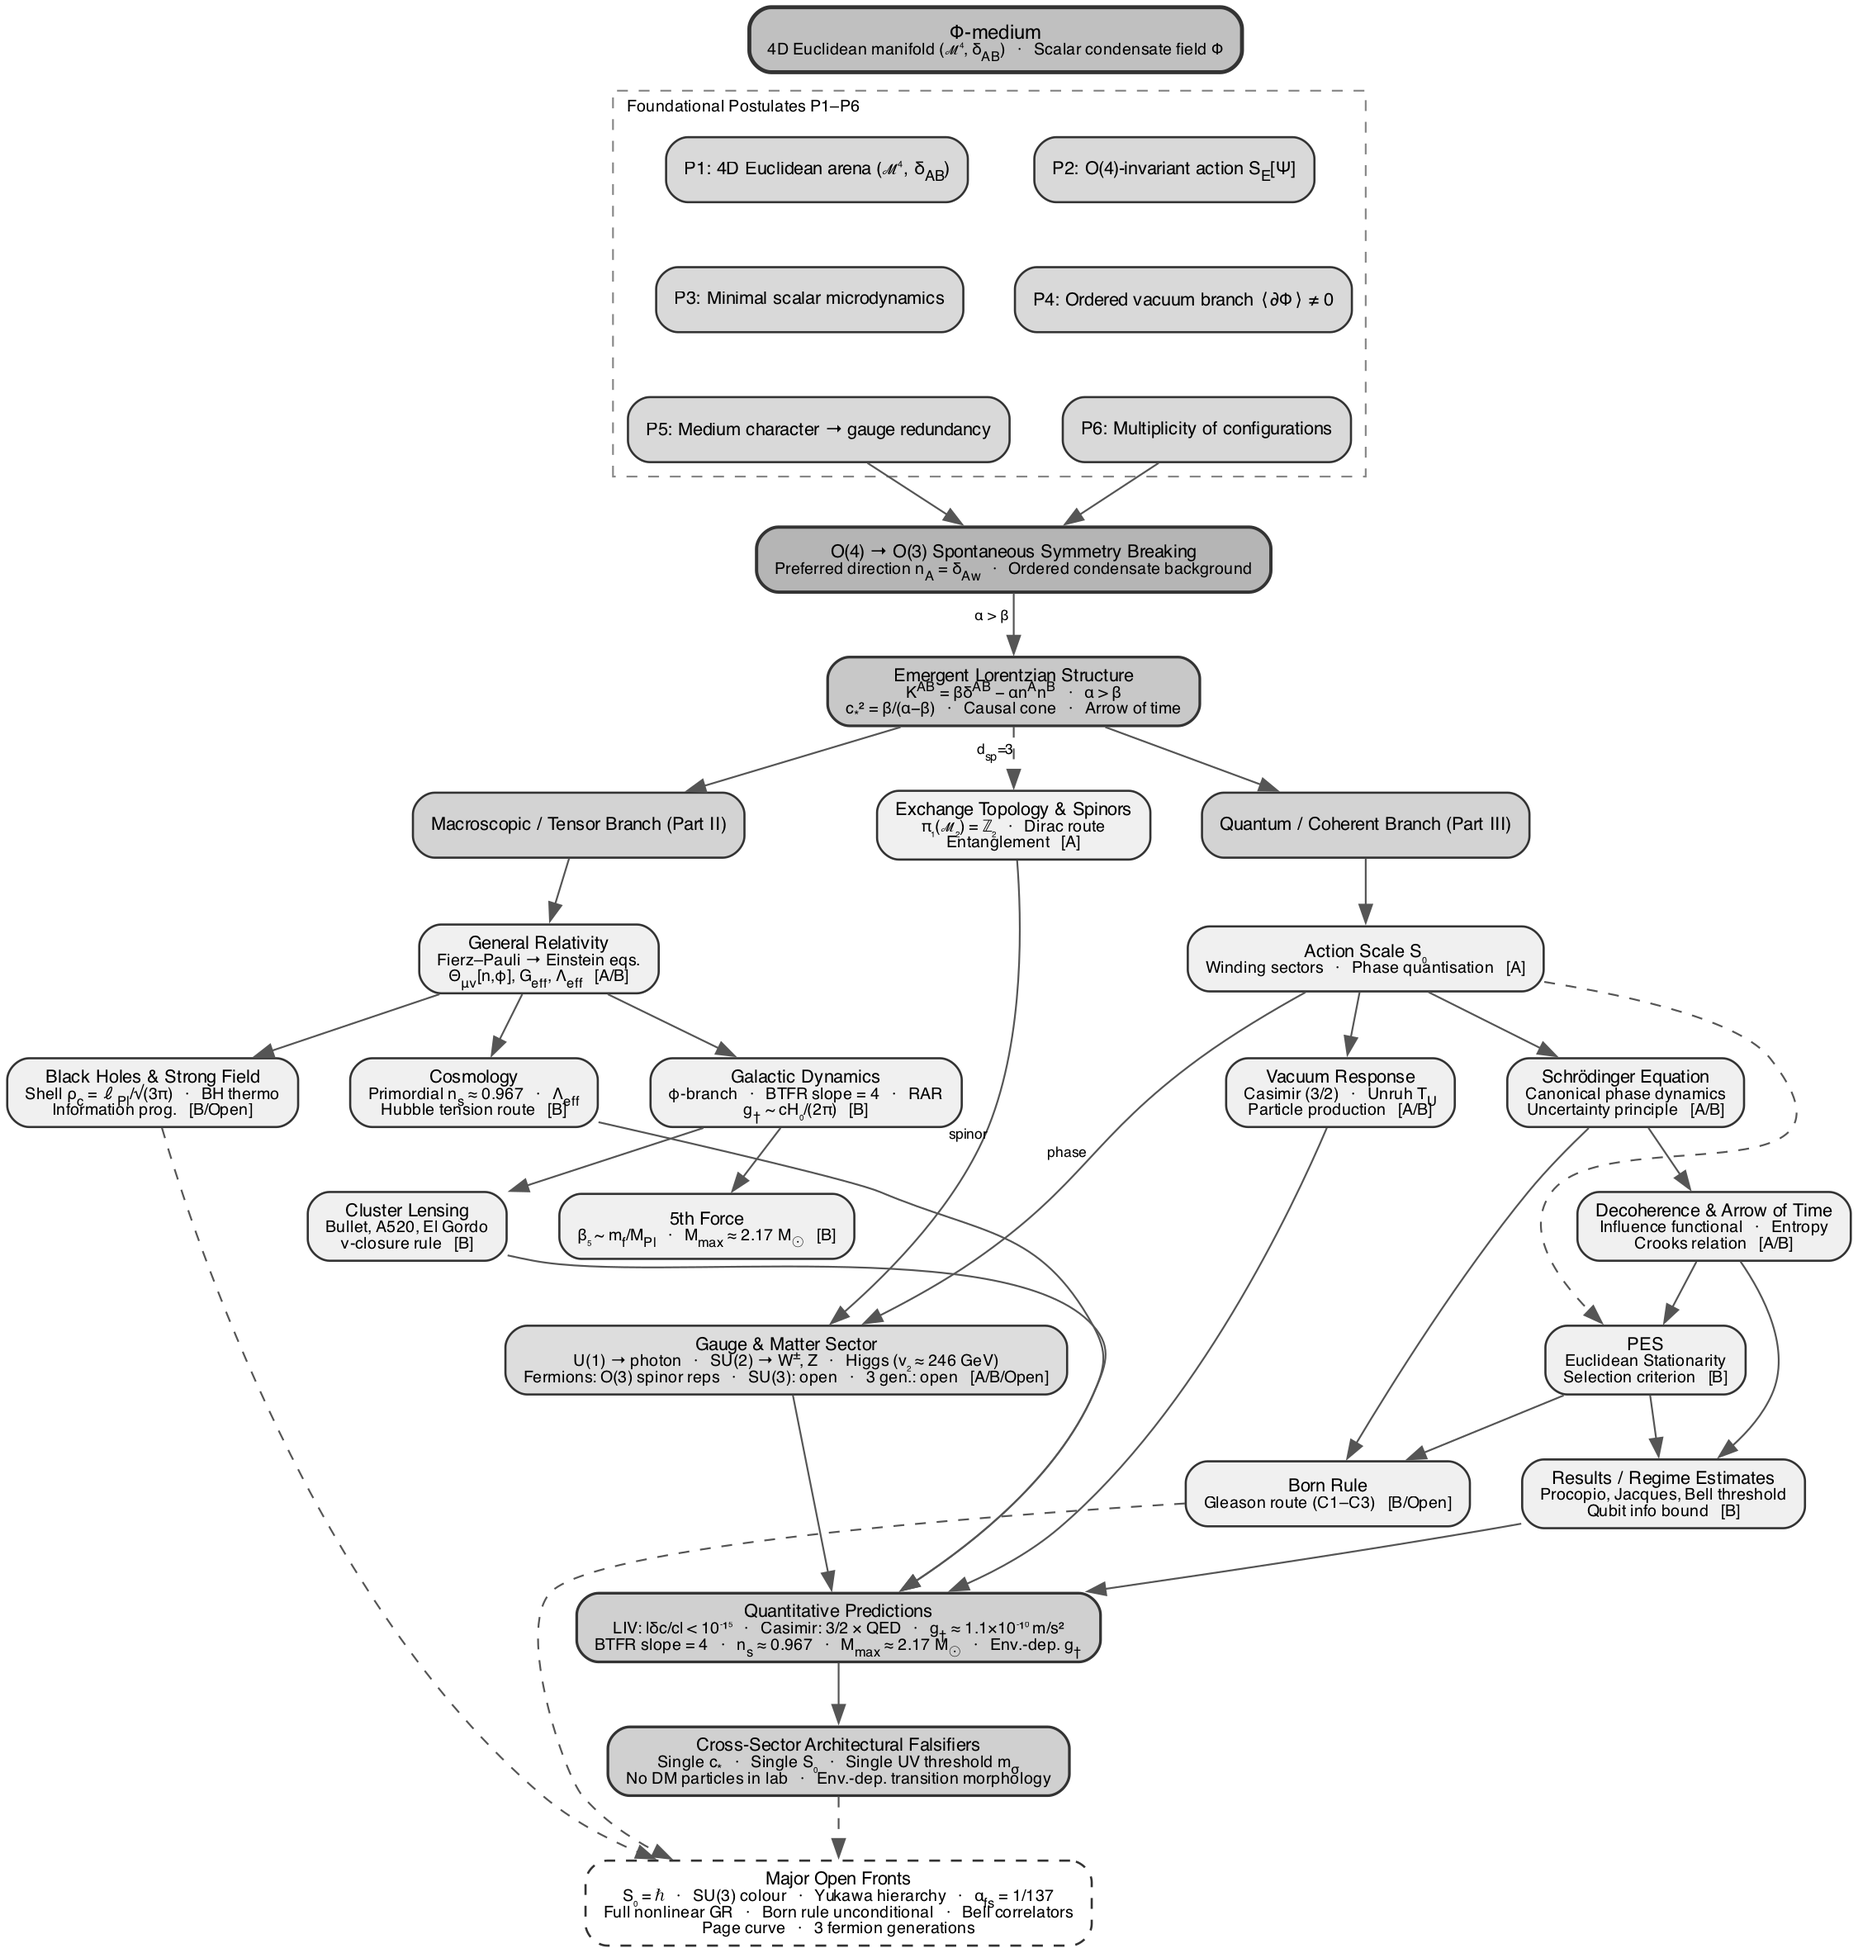
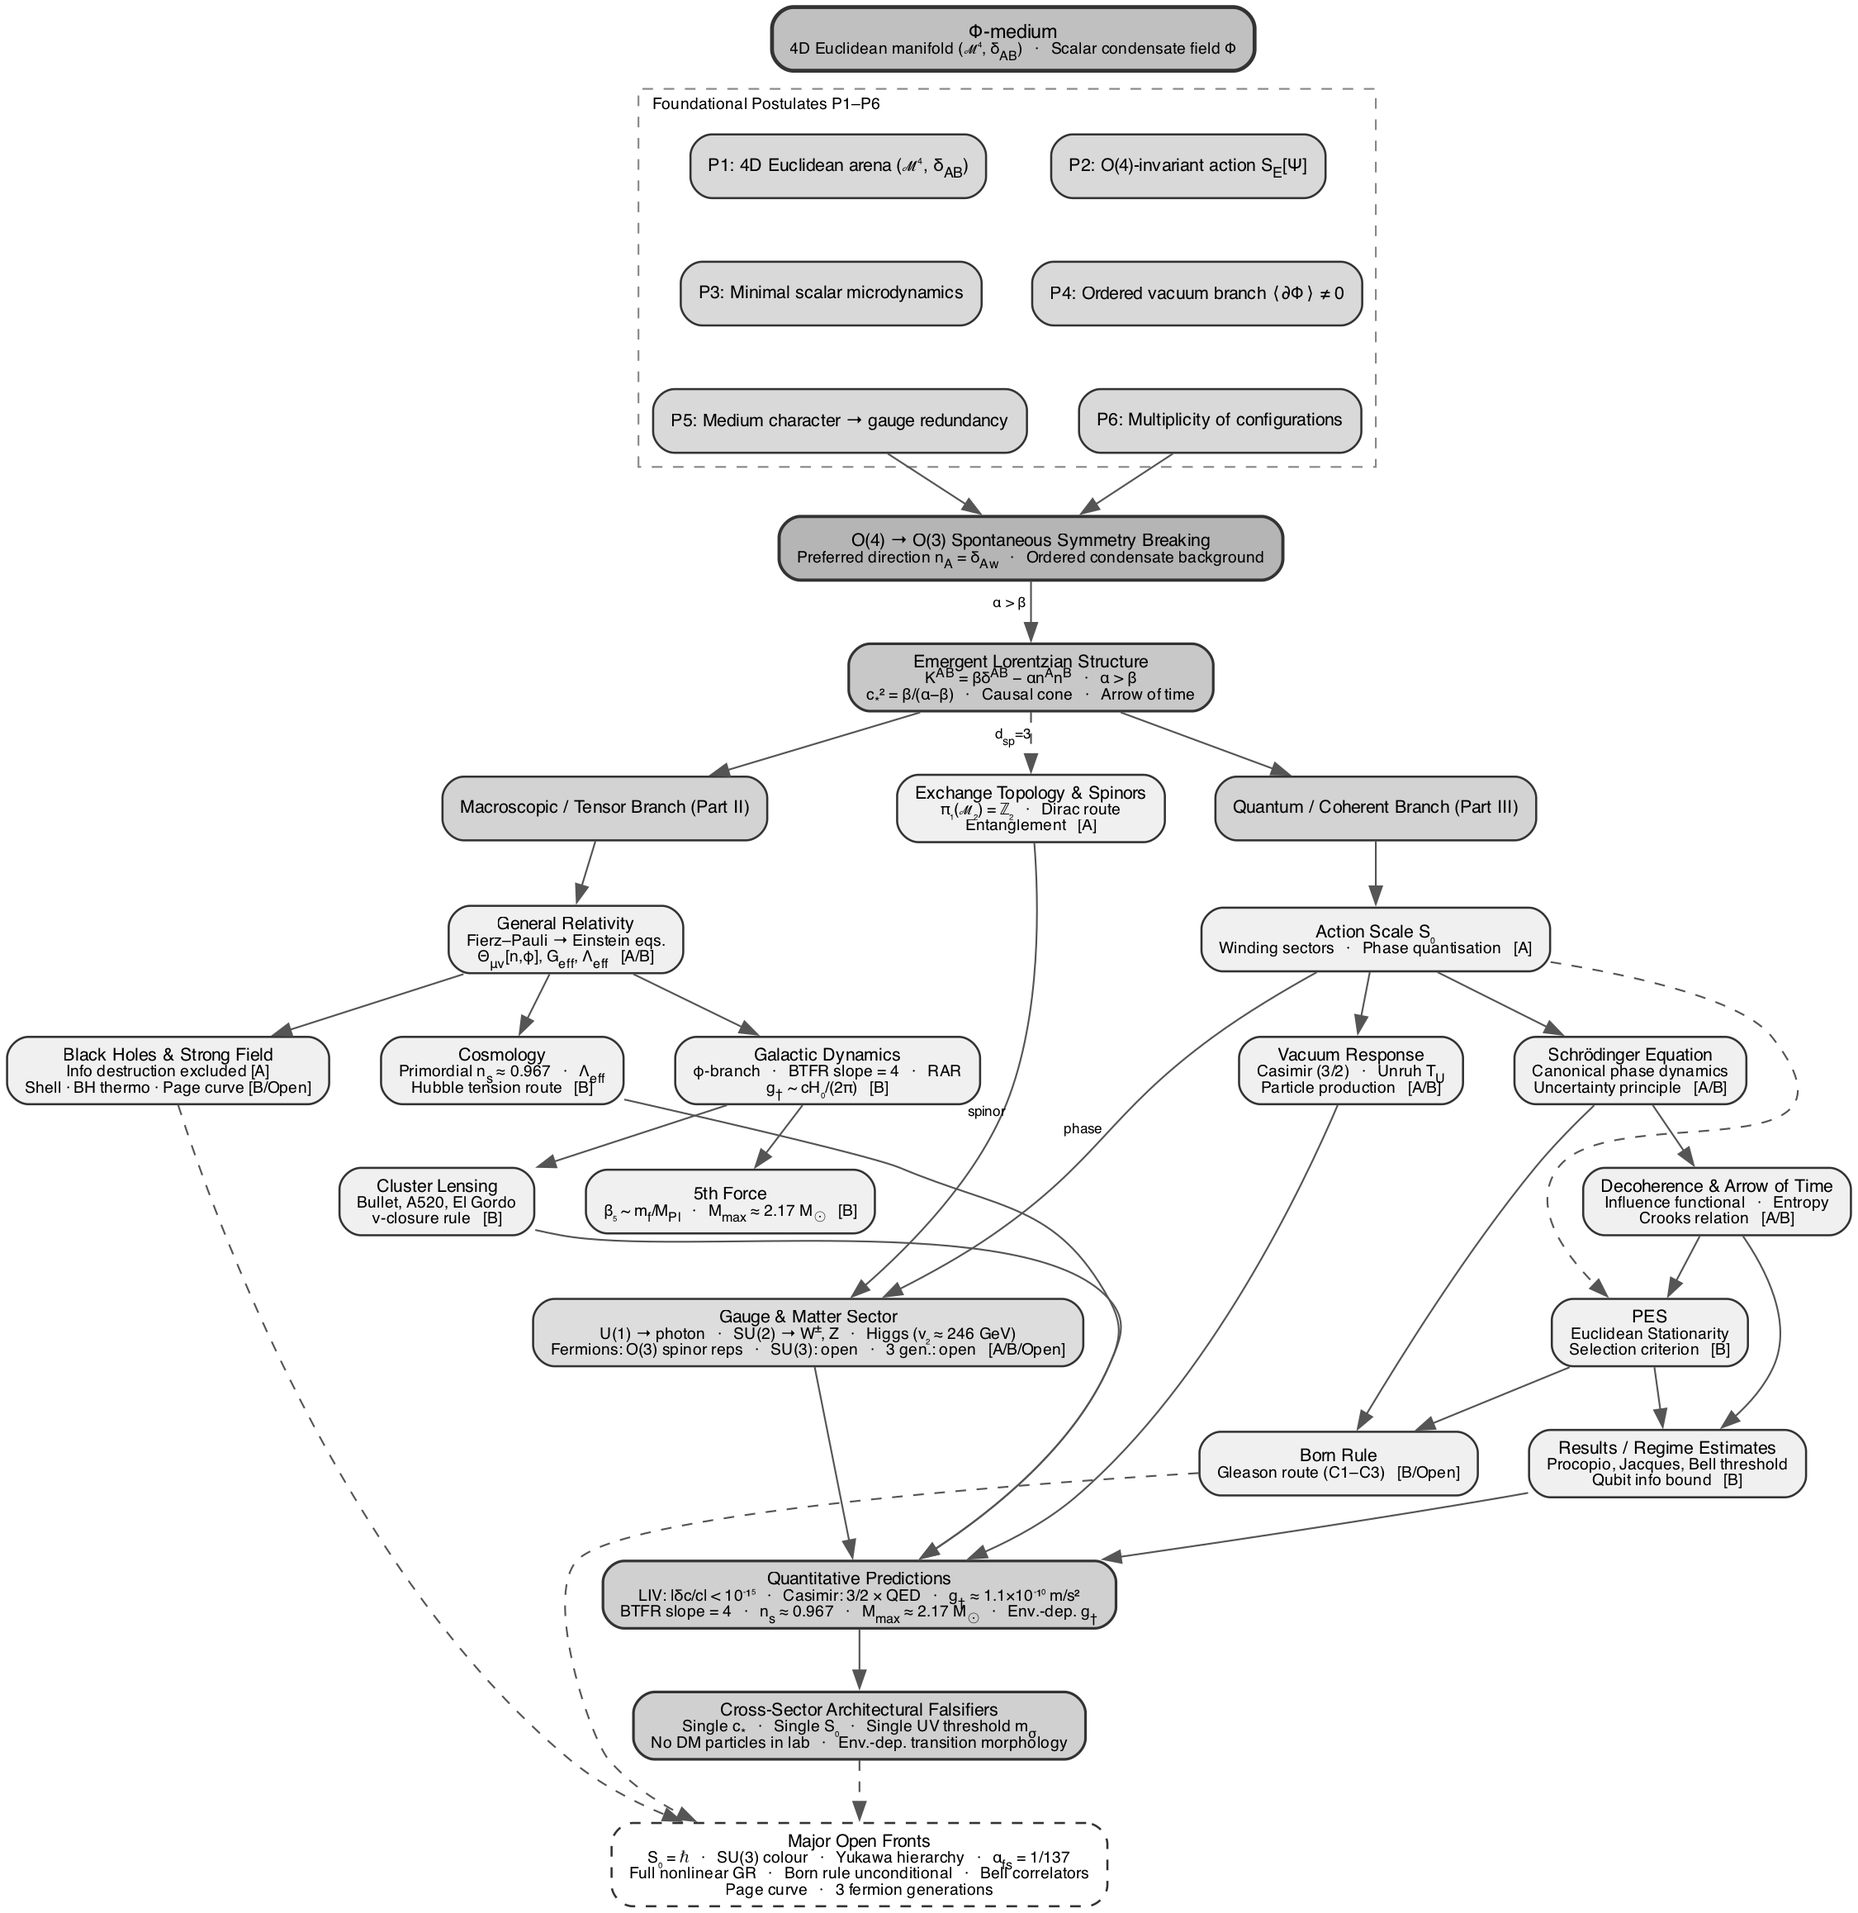
Fix BH node in conclusion derivation map: 'Information prog [B/Open]' → 'Info destruction excluded [A] / Shell·Page [B/Open]'. Part III graph already correct. 544pp 0err

diff --git a/fig_ect_derivation_map.py b/fig_ect_derivation_map.py
@@ -67,7 +67,7 @@ digraph ECT {
 
   COSMO [label=<Cosmology<BR/><FONT POINT-SIZE="9">Primordial n<SUB>s</SUB> ≈ 0.967   ·   Λ<SUB>eff</SUB><BR/>Hubble tension route   [B]</FONT>>];
   GAL [label=<Galactic Dynamics<BR/><FONT POINT-SIZE="9">φ-branch   ·   BTFR slope = 4   ·   RAR<BR/>g<SUB>†</SUB> ~ cH₀/(2π)   [B]</FONT>>];
-  BH [label=<Black Holes &amp; Strong Field<BR/><FONT POINT-SIZE="9">Shell ρ<SUB>c</SUB> = ℓ<SUB>Pl</SUB>/√(3π)   ·   BH thermo<BR/>Information prog.   [B/Open]</FONT>>];
+  BH [label=<Black Holes &amp; Strong Field<BR/><FONT POINT-SIZE="9">Info destruction excluded [A]<BR/>Shell · BH thermo · Page curve [B/Open]</FONT>>];
   FIFTH [label=<5th Force<BR/><FONT POINT-SIZE="9">β₅ ~ m<SUB>f</SUB>/M<SUB>Pl</SUB>   ·   M<SUB>max</SUB> ≈ 2.17 M<SUB>⊙</SUB>   [B]</FONT>>];
   CLUSTER [label=<Cluster Lensing<BR/><FONT POINT-SIZE="9">Bullet, A520, El Gordo<BR/>ν-closure rule   [B]</FONT>>];
 
